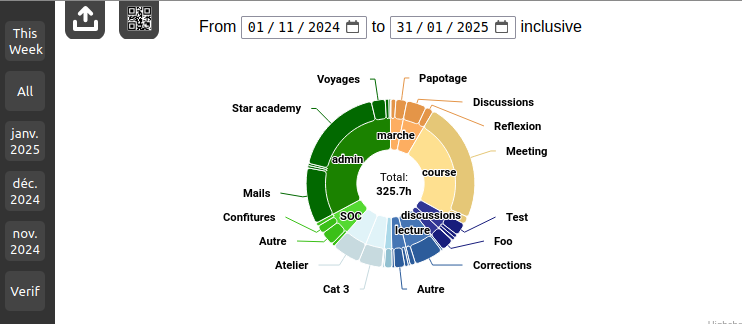
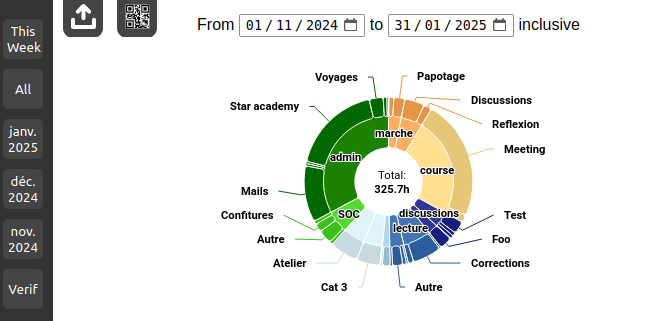
Updated the screenshots for the readme

diff --git a/README.md b/README.md
@@ -3,10 +3,16 @@
 This is a small website for viewing time tracking data captured with the [Track&Graph](https://play.google.com/store/apps/details?id=com.samco.trackandgraph&hl=en&pli=1) application.
 
 It displays the data recorded in Track&Graph as a pie chart:
-![Main view of the application](doc/piechart.png)
+
+<p align="center">
+    <img src="doc/piechart.png" title="Main view of the application" width="650">
+</p>
 
 There is also a Calendar view for verifying that there is no error in the data:
-![View data in calendar form](doc/calendar.png)
+
+<p align="center">
+    <img src="doc/calendar.png" title="View data in calendar form" width="650">
+</p>
 
 You can get an idea of what the website looks like [here](https://marcheinrich.fr/testTimeViewer).
 
